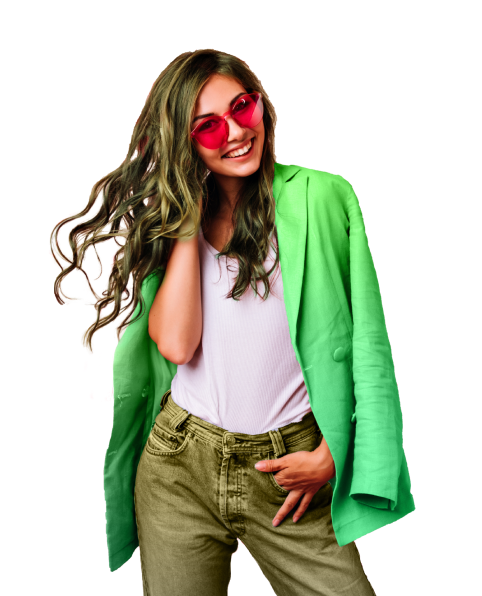
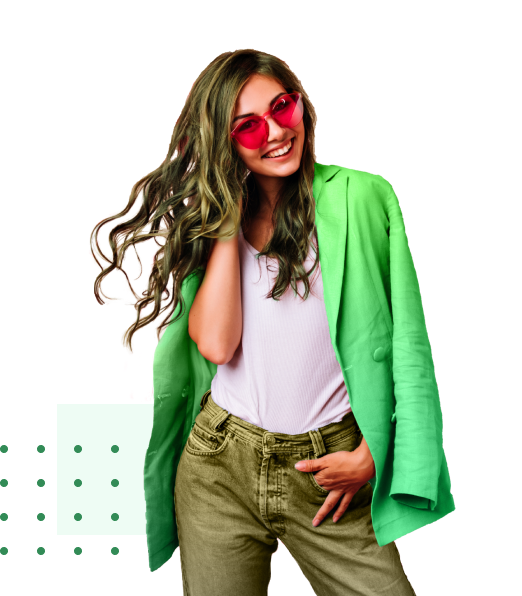
сделал exclusive_offer

diff --git a/styles/style.css b/styles/style.css
@@ -277,6 +277,11 @@ a.btn_active {
     padding: 0 121px 0 81px;
 }
 .banner_picture {
+    position: relative;
+    bottom: 25px;
+}
+.banner_picture img {
+    order: 10;
 }
 .banner_info {
     max-width: 589px;
@@ -317,6 +322,7 @@ a.btn_active {
     color: var(--color_green_dark);
     font-size: 16px;
     font-weight: 500;
+    margin: 0;
 }
 .banner_info .btn_active {
     padding: 22px 70px;

diff --git a/index.html b/index.html
@@ -286,7 +286,7 @@
                             <p>Min</p>
                         </div>
                     </div>
-                    <a href="" class="_btn btn_active">BUY NOW</a>
+                    <a href="#!" class="_btn btn_active">BUY NOW</a>
                 </div>
             </div>
         </section>
